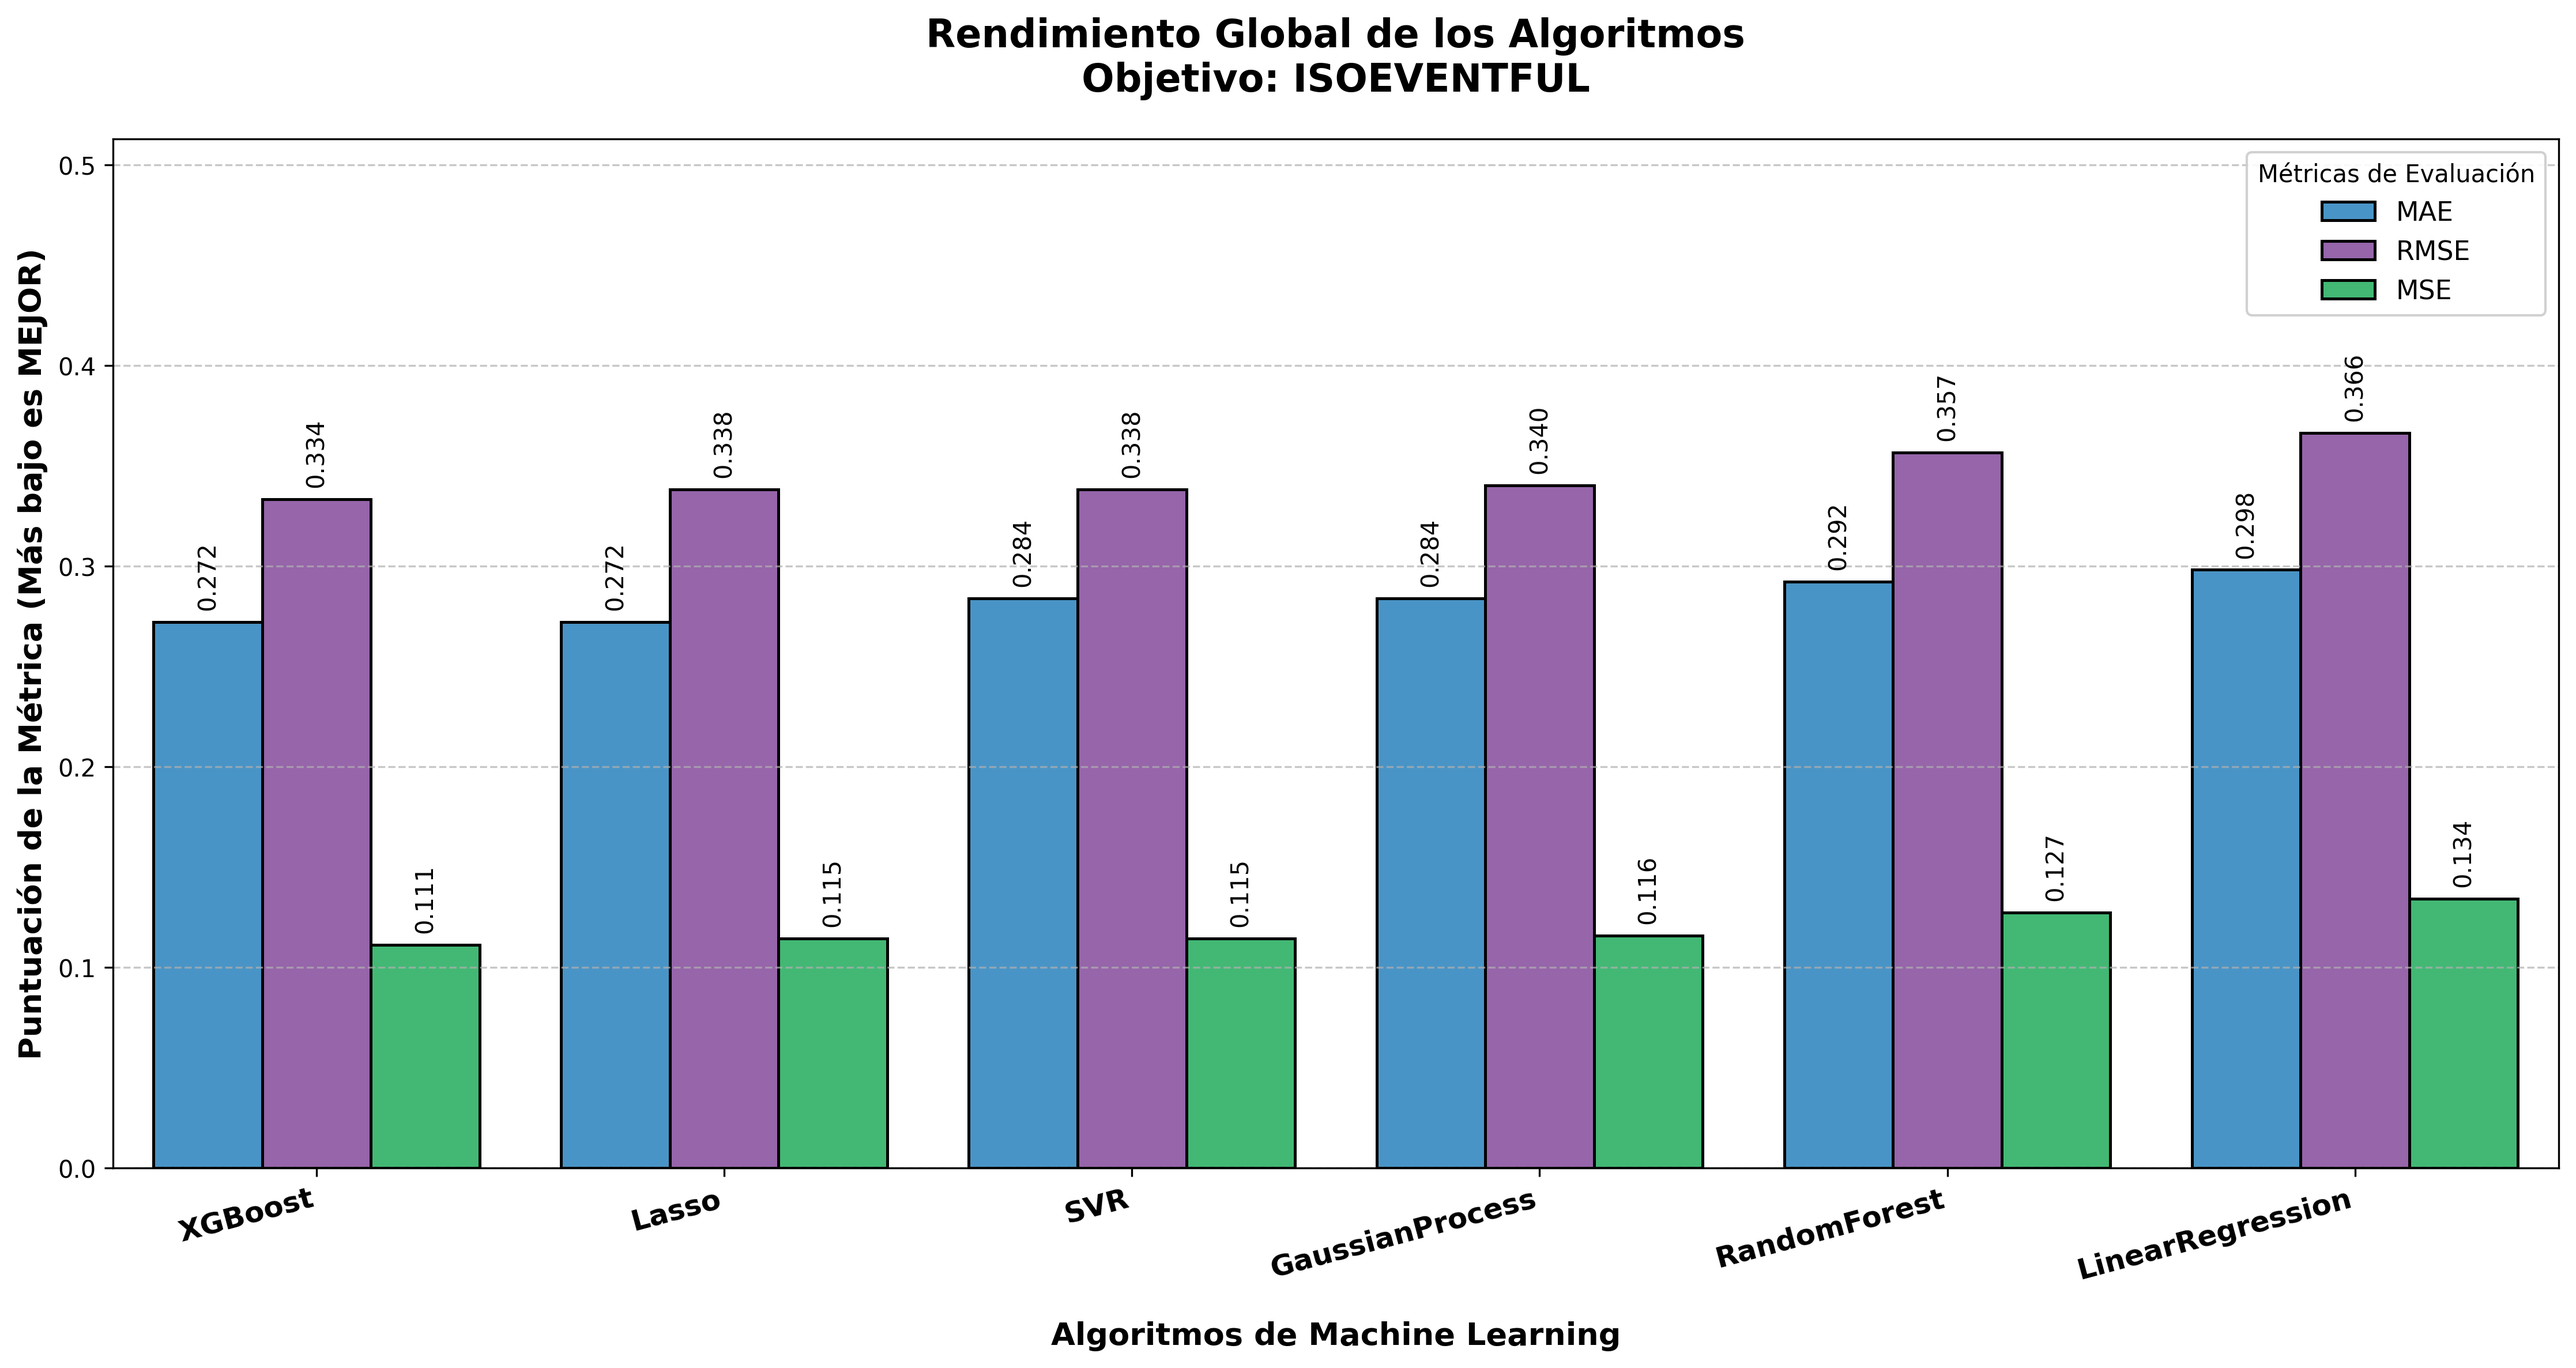
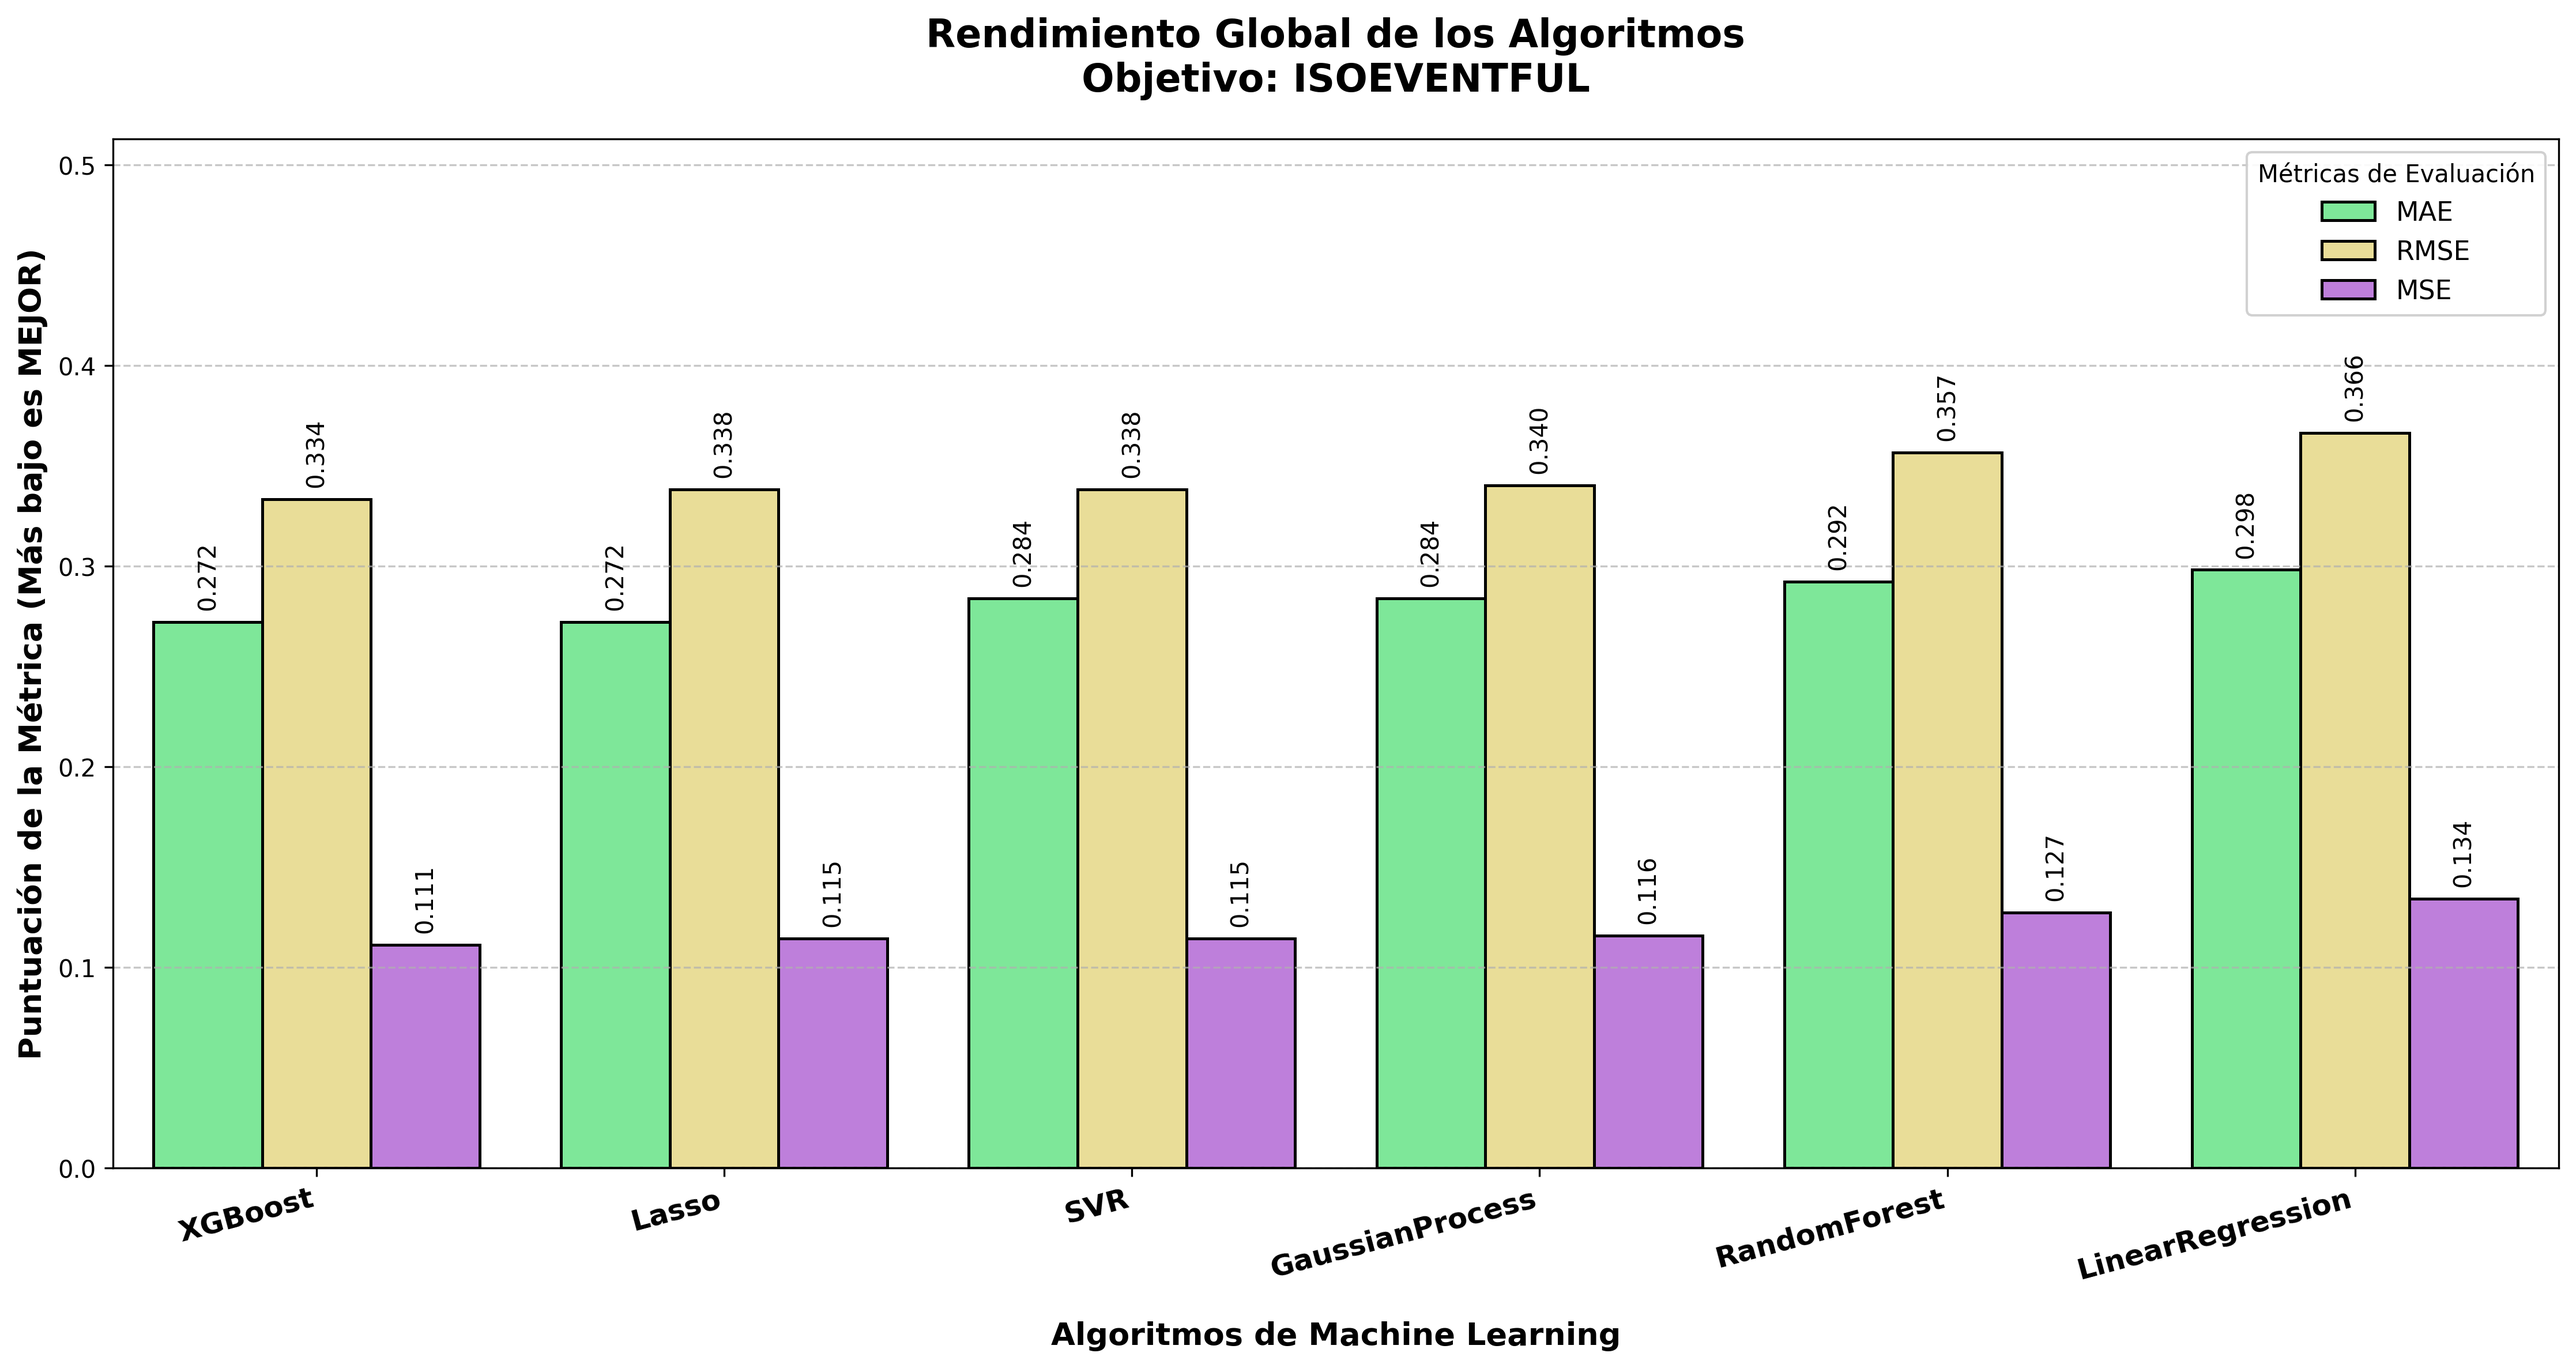
cambiolor

diff --git a/AM_Global_2.py b/AM_Global_2.py
@@ -457,7 +457,7 @@ def generar_comparativa_global_ias(df_resumen_global, target_name):
     
     # 3. DISEÑO DE LA GRÁFICA
     plt.figure(figsize=(15, 8))
-    colores = ['#3498db', '#9b59b6', '#2ecc71'] 
+    colores = ["#6df890", "#f7e68a", "#c46feb"] 
     
     ax = sns.barplot(
         data=df_melted, x='Modelo', y='Valor', hue='Métrica', 
